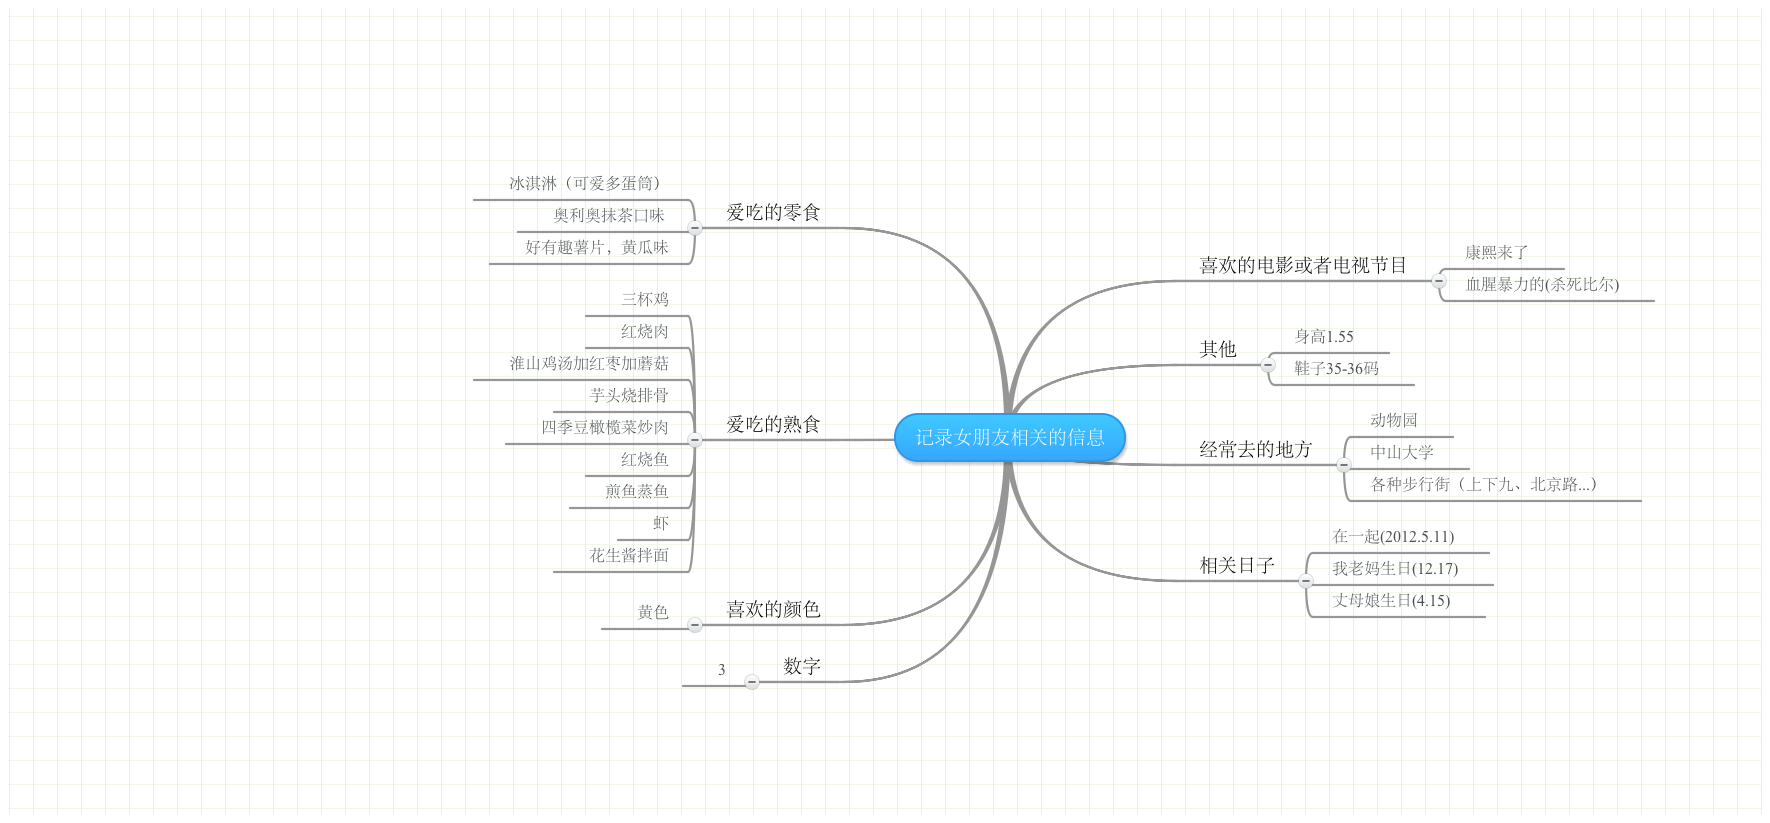
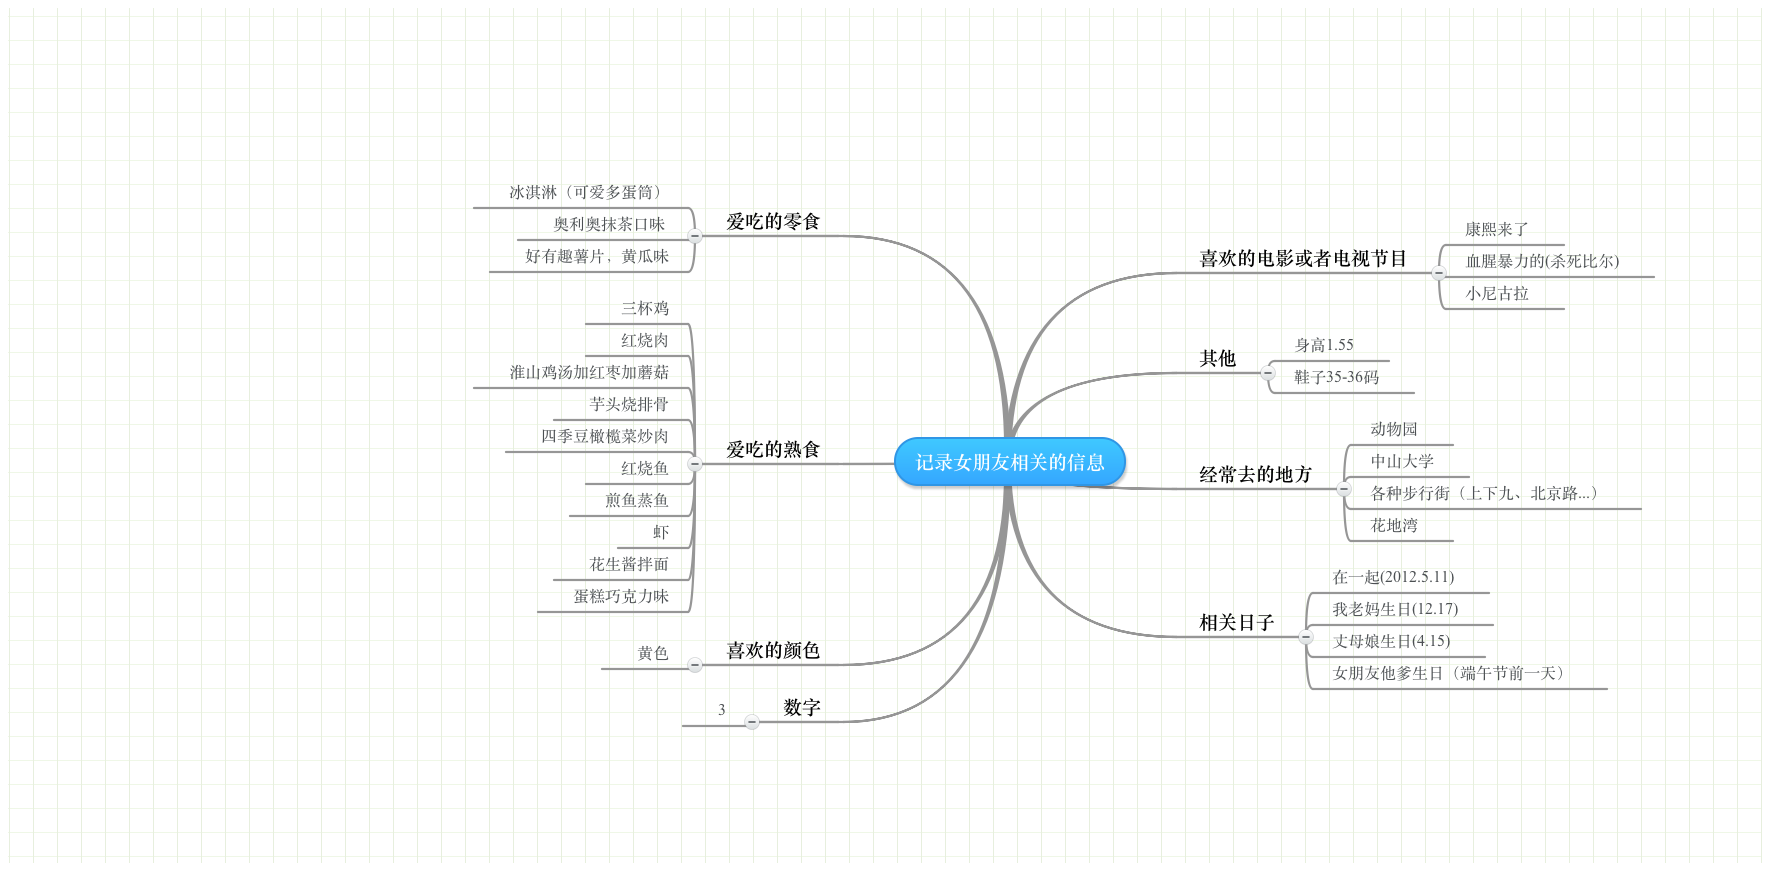
updated

diff --git a/readme.md b/readme.md
@@ -17,6 +17,7 @@
   - 煎鱼蒸鱼
   - 虾
   - 花生酱拌面
+  - 蛋糕巧克力味
 
 - 喜欢的颜色
   - 黄色
@@ -39,11 +40,13 @@
   - 动物园
   - 中山大学
   - 各种步行街（上下九、北京路...）
+  - 花地湾
 
 - 相关日子
   - 在一起(2012.5.11)
   - 我老妈生日(12.17)
   - 丈母娘生日(4.15)
+  - 女朋友他爹生日（端午节前一天）
 
 ---------------------------
 created by jsMindScreenShot  
